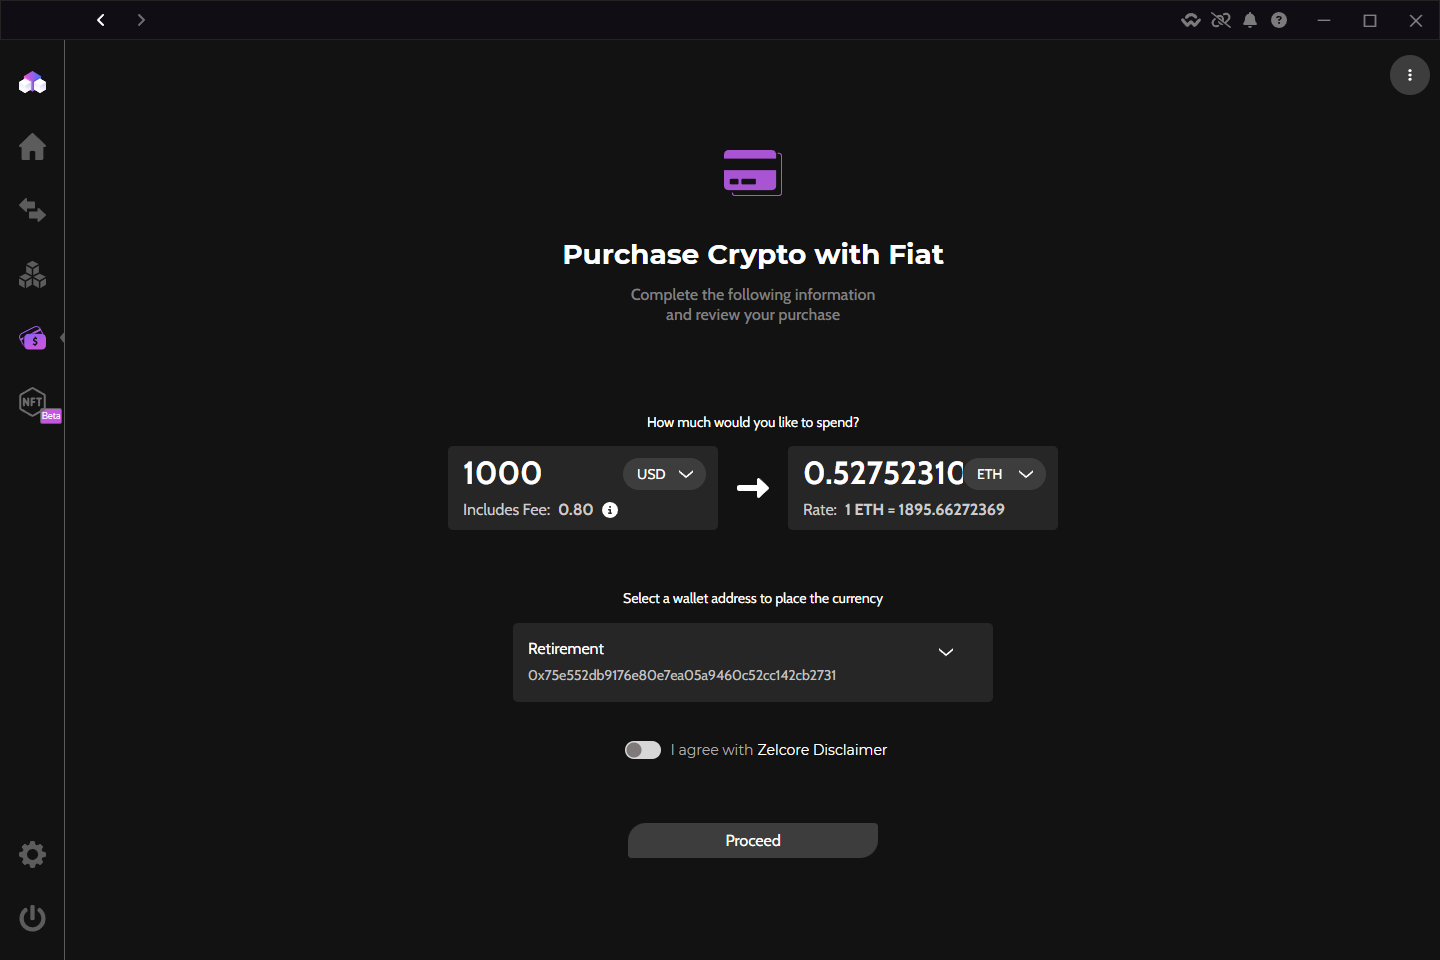
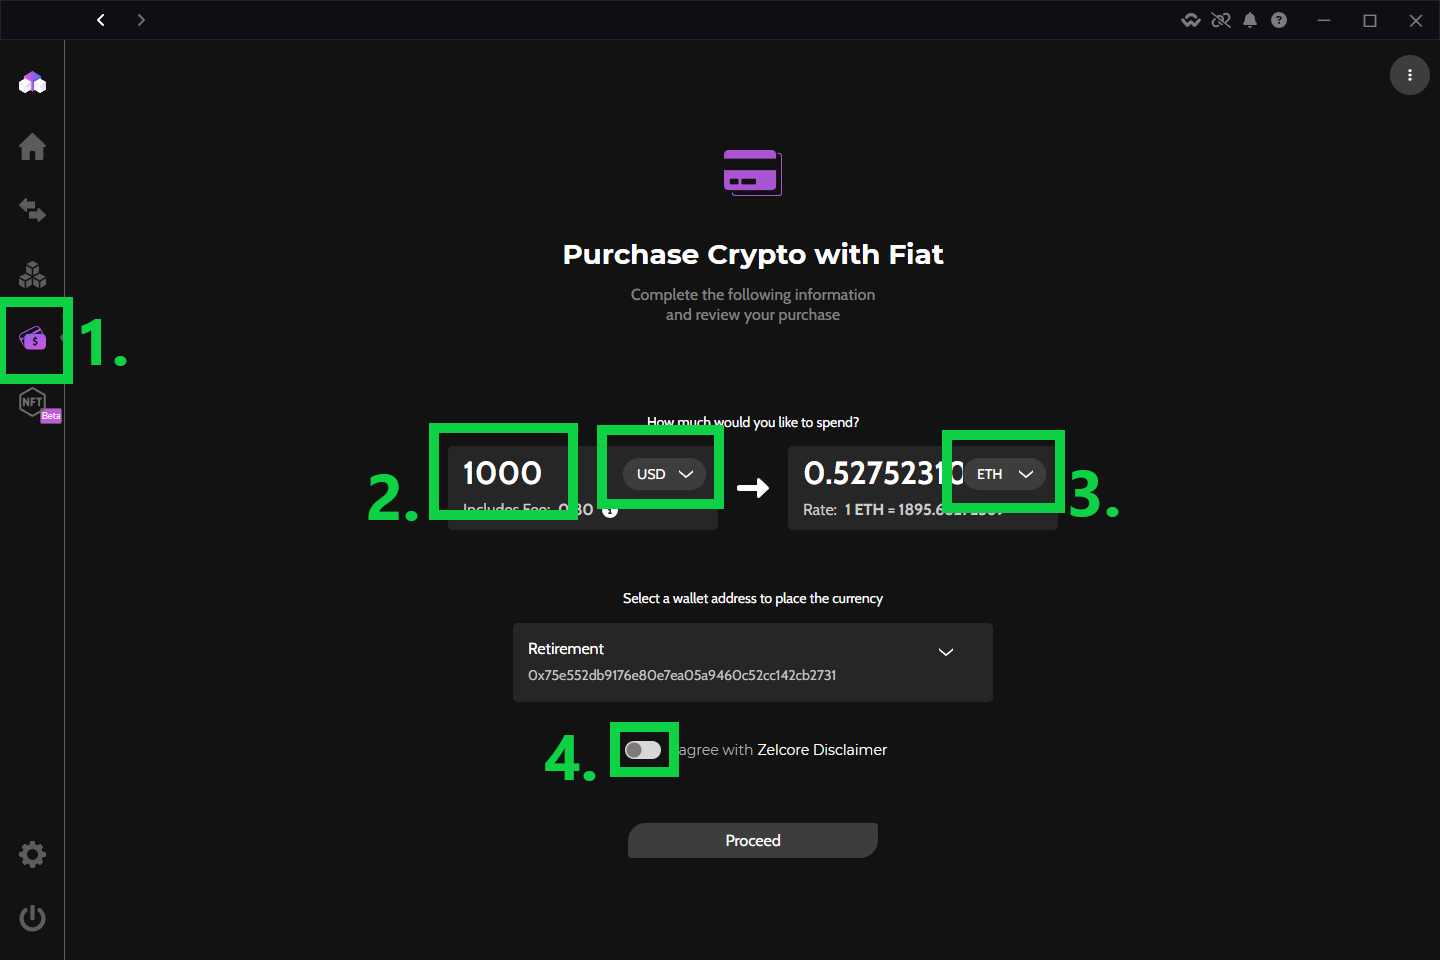
add quickswap guide

diff --git a/docs/guides/fiat_on.md b/docs/guides/fiat_on.md
@@ -1,13 +1,13 @@
 <h1> How to Buy Crypto in Zelcore </h1>
 
 1. On the left toolbar, select the "Purchase" button.
-2. Zelcore checks rates from multiple providers and allows you to choose your preferred offer.
-3. Type the amount you want to pay in the left box and select your local currency.
-4. Select the crypto you want to buy in the right box dropdown. 
-5. Read the terms of service, and activate the slider if you accept the terms. Proceed to the next screen.
-6. Offers from our providers will show up with the market price and fees. Tap the offer you want to take.
-7. Each provider has their own secure portal with their own unique steps. Follow the directions to complete your purchase.
-8. After completing the purchase, your crypto will be delivered to your Zelcore wallet. This typically takes 1-2 minutes, though can take longer for blockchains with long confirmation times.
+    * Zelcore checks rates from multiple providers and allows you to choose your preferred offer.
+2. Type the amount you want to pay in the left box and select your local currency.
+3. Select the crypto you want to buy in the right box dropdown. 
+4. Read the terms of service, and activate the slider if you accept the terms. Proceed to the next screen.
+5. Offers from our providers will show up with the market price and fees. Tap the offer you want to take.
+6. Each provider has their own secure portal with their own unique steps. Follow the directions to complete your purchase.
+7. After completing the purchase, your crypto will be delivered to your Zelcore wallet. This typically takes 1-2 minutes, though can take longer for blockchains with long confirmation times.
 
 ??? tip "Banking and crypto laws are wildly different between countries, states, and even locales"
 
@@ -17,19 +17,19 @@
 
 ### Steps in pictures
 
-=== "Steps 1-5"
+=== "Steps 1-4"
     <figure markdown>
         ![buy_step1](../assets/guides/buy_crypto/buy1.PNG){ width="600" }
-        <figcaption> Go to "Purchase" screen</figoption>
+        <figcaption> Go to "Purchase" screen</figcaption>
     </figure>
 
-=== "Step 6"
+=== "Step 5"
     <figure markdown>
         ![buy_step2](../assets/guides/buy_crypto/buy2.PNG){ width="600" }
         <figcaption> Select your preferred offer</figcation>
     </figure>
 
-=== "Steps 7-8"
+=== "Steps 6-7"
     <figure markdown>
         ![buy_step3](../assets/guides/buy_crypto/buy3.PNG){ width="600" }
         <figcaption> Complete your purchase</figcaption>

diff --git a/docs/guides/quickswap.md b/docs/guides/quickswap.md
@@ -1,0 +1,44 @@
+<h1> How to Swap Crypto In Zelcore </h1>
+
+1. On the left toolbar, select the "Exchange" button.
+    * Zelcore checks rates from multiple providers to find the best options.
+2. To swap one crypto to another crypto, select "QuickSwap"
+3. From the two dropdown menus, select your "Selling" and "Buying" cryptos.
+    * "Selling" asset is the coin you are giving. "Buying" asset is the coin you will get.
+4. Write in the amount of coin you wish to sell. The estimated value in fiat currency is also displayed.
+5. By default, the trade with the best rate is automatically displayed. You may select a different option if desired:
+    * Best Rate
+    * Fixed Rate
+    * By Provider
+6. Tap the "Swap" button to start the transaction. Your swap history is shown in the upper right.
+
+!!! tip ""
+    By starting the transaction, you also accepting the 3rd party provider's Terms of Service and Zelcore's Disclaimer. Be sure to read those before swapping.
+
+:warning: Swap times vary depending on which assets are selected :warning:
+
+```
+Swapping ERC20 to ERC20 normally takes 1-2 minutes
+while Buying/Selling Bitcoin may take >30 minutes
+because of block confirmation times.
+```
+
+### Steps in pictures
+
+=== "Steps 1-2"
+    <figure markdown>
+        ![swap_step1](../assets/guides/swap_crypto/swap1.PNG){ width="600" }
+        <figcaption> Launch QuickSwap aggregator</figcaption>
+    </figure>
+
+=== "Steps 3-6"
+    <figure markdown>
+        ![swap_step2](../assets/guides/swap_crypto/swap2.PNG){ width="600" }
+        <figcaption> Set up your swap and execute</figcaption>
+    </figure>
+
+=== "Swap History"
+    <figure markdown>
+        ![swap_step3](../assets/guides/swap_crypto/swap3.PNG){ width="600" }
+        <figcaption> View detailed info about previous swaps</figcaption>
+    </figure>
